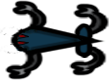
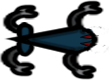
Trolley Trouble 41
- rutas de enemigos (en progreso)

diff --git a/miJuego/Classes/Enemigo.cpp b/miJuego/Classes/Enemigo.cpp
@@ -1,10 +1,76 @@
 #include "Enemigo.h"
 
-
-
 Enemigo::Enemigo()
 {
-	sprite = Sprite::create("enemigos/enemifo.png");
+	velocidad = 1;
+}
+
+void Enemigo::setOrientacion(char ori) {
+	this->orientacion = ori;
+}
+
+char Enemigo::getOrientacion() {
+	return this->orientacion;
+}
+
+void Enemigo::movimiento() {
+	
+	/*switch (tipo) {
+	case 1: case 2:
+		
+		if (this->sprite->getPositionX() > maxX) {
+			this->orientacion = 'w';
+			this->sprite->setFlippedX(true);
+			this->sprite->setPositionX(maxX);
+		}else if (this->sprite->getPositionX() < minX) {
+			this->orientacion = 'e';
+			this->sprite->setFlippedX(false);
+			this->sprite->setPositionX(minX);
+		}
+
+		if (this->orientacion == 'e') {
+			this->sprite->setPosition(Vec2(this->sprite->getPositionX() + 5, this->sprite->getPositionY()));
+		}else {
+			this->sprite->setPosition(Vec2(this->sprite->getPositionX() - 5, this->sprite->getPositionY()));
+		}
+		break;
+
+	case 3:
+		
+		if (this->sprite->getPositionY() > maxY) {
+		this->orientacion = 's';
+		this->sprite->setPositionY(maxY);
+		}
+		else if (this->sprite->getPositionY() < minY) {
+		this->orientacion = 'n';
+		this->sprite->setPositionY(minY);
+		}
+		if (this->orientacion == 'n') {
+			this->sprite->setPosition(Vec2(this->sprite->getPositionX(), this->sprite->getPositionY() + 5));
+		}
+		else {
+			this->sprite->setPosition(Vec2(this->sprite->getPositionX(), this->sprite->getPositionY() - 5));
+		}
+		break;
+	default:
+		break;
+	}*/
 }
 
 
+void Enemigo::cambiarSprite() {
+	switch (orientacion) {
+		case 'n':
+			sprite->setTexture("enemigos/cosa.png");
+			break;
+		case 'e':
+			sprite->setTexture("enemigos/cosa.png");
+			break;
+		case 'w':
+			sprite->setTexture("enemigos/cosa.png");
+			break;
+		case 's':
+			sprite->setTexture("enemigos/cosa.png");
+			break;
+	}
+}

diff --git a/miJuego/Classes/Enemigo.h b/miJuego/Classes/Enemigo.h
@@ -7,16 +7,27 @@ class Enemigo
 private:
 	int vida;
 	int ataque;
-	int velocidad;
+	char orientacion;
+	/*int pasosDer = 0;
+	int pasosIzq = 100;*/
 	
 
 
 public:
+	int minX;
+	int maxX;
+	int minY;
+	int maxY;
 	int tipo;
+	float velocidad;
 	Vec2 posicion;
 	Enemigo();
-	void atacar();
 	void movimiento();
+	Sprite* imagenIzquierda;
+	Sprite* imagenDerecha;
 	Sprite* sprite;
+	void setOrientacion(char);
+	char getOrientacion();
+	void cambiarSprite();
 };
 

diff --git a/miJuego/Classes/GameScene.h b/miJuego/Classes/GameScene.h
@@ -47,6 +47,7 @@ public:
 	void crearEnemigos();
 	void addColision(Sprite* sprite, int tipo);
 	void rotarProta();
+	void rotarEnemigos(Enemigo*);
 	void centerViewport(float scrollX, float scrollY);
 	CREATE_FUNC(GameScene);
 
